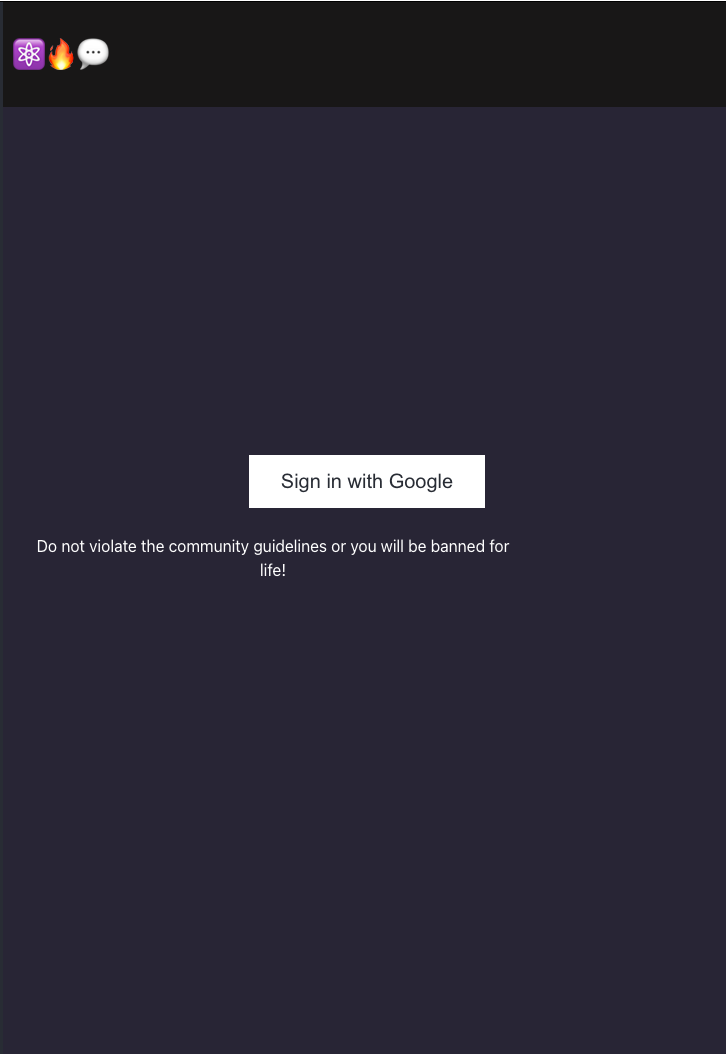
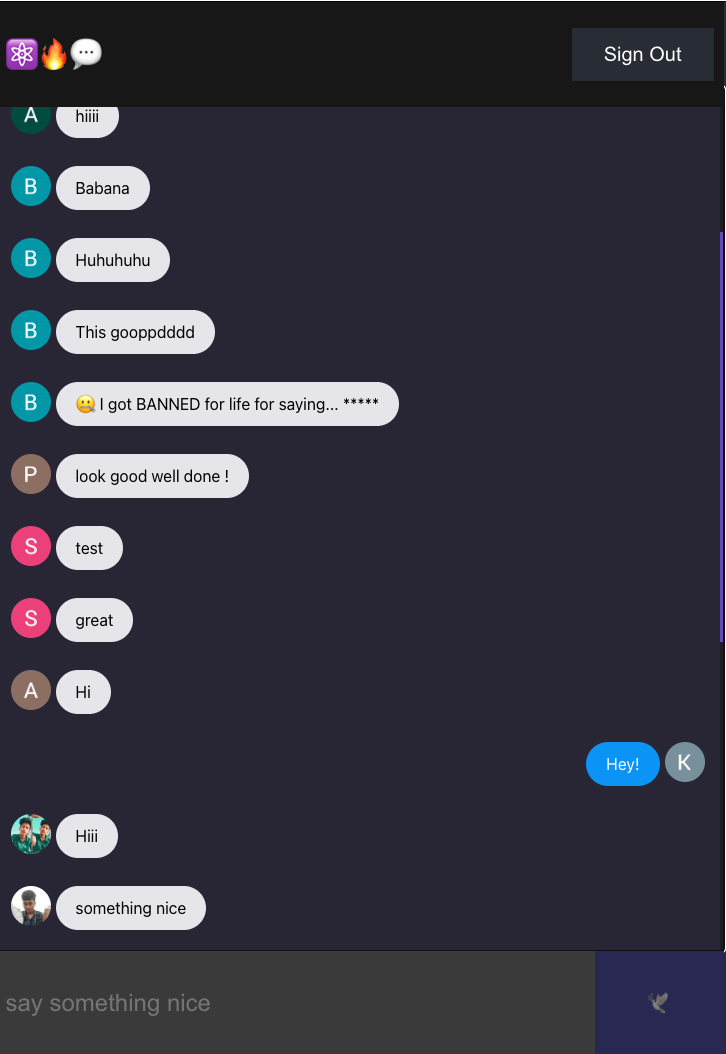
adding superchat

diff --git a/_projects/3_project.md b/_projects/3_project.md
@@ -2,79 +2,21 @@
 layout: page
 title: SuperChat
 description: global chat room for everyone
-img: assets/img/7.jpg
+img: assets/img/superchat/superchat.jpg
 importance: 3
 category: work
 ---
 
-Every project has a beautiful feature showcase page.
-It's easy to include images in a flexible 3-column grid format.
-Make your photos 1/3, 2/3, or full width.
-
-To give your project a background in the portfolio page, just add the img tag to the front matter like so:
-
-    ---
-    layout: page
-    title: project
-    description: a project with a background image
-    img: /assets/img/12.jpg
-    ---
+Global chat room for everyone. Utilizes React for the front end and Google Firebase for storage and real-time access of messages.
 
 <div class="row">
     <div class="col-sm mt-3 mt-md-0">
-        {% include figure.liquid loading="eager" path="assets/img/1.jpg" title="example image" class="img-fluid rounded z-depth-1" %}
+        {% include figure.liquid loading="eager" path="assets/img/superchat/signin.jpg" title="Google Sign In Image" class="img-fluid rounded z-depth-1" %}
     </div>
     <div class="col-sm mt-3 mt-md-0">
-        {% include figure.liquid loading="eager" path="assets/img/3.jpg" title="example image" class="img-fluid rounded z-depth-1" %}
-    </div>
-    <div class="col-sm mt-3 mt-md-0">
-        {% include figure.liquid loading="eager" path="assets/img/5.jpg" title="example image" class="img-fluid rounded z-depth-1" %}
+        {% include figure.liquid loading="eager" path="assets/img/superchat/chatroom.jpg" title="Chatroom image" class="img-fluid rounded z-depth-1" %}
     </div>
 </div>
 <div class="caption">
-    Caption photos easily. On the left, a road goes through a tunnel. Middle, leaves artistically fall in a hipster photoshoot. Right, in another hipster photoshoot, a lumberjack grasps a handful of pine needles.
+    Sign in easily with google sign-in and say hi!
 </div>
-<div class="row">
-    <div class="col-sm mt-3 mt-md-0">
-        {% include figure.liquid loading="eager" path="assets/img/5.jpg" title="example image" class="img-fluid rounded z-depth-1" %}
-    </div>
-</div>
-<div class="caption">
-    This image can also have a caption. It's like magic.
-</div>
-
-You can also put regular text between your rows of images.
-Say you wanted to write a little bit about your project before you posted the rest of the images.
-You describe how you toiled, sweated, _bled_ for your project, and then... you reveal its glory in the next row of images.
-
-<div class="row justify-content-sm-center">
-    <div class="col-sm-8 mt-3 mt-md-0">
-        {% include figure.liquid path="assets/img/6.jpg" title="example image" class="img-fluid rounded z-depth-1" %}
-    </div>
-    <div class="col-sm-4 mt-3 mt-md-0">
-        {% include figure.liquid path="assets/img/11.jpg" title="example image" class="img-fluid rounded z-depth-1" %}
-    </div>
-</div>
-<div class="caption">
-    You can also have artistically styled 2/3 + 1/3 images, like these.
-</div>
-
-The code is simple.
-Just wrap your images with `<div class="col-sm">` and place them inside `<div class="row">` (read more about the <a href="https://getbootstrap.com/docs/4.4/layout/grid/">Bootstrap Grid</a> system).
-To make images responsive, add `img-fluid` class to each; for rounded corners and shadows use `rounded` and `z-depth-1` classes.
-Here's the code for the last row of images above:
-
-{% raw %}
-
-```html
-<div class="row justify-content-sm-center">
-  <div class="col-sm-8 mt-3 mt-md-0">
-    {% include figure.liquid path="assets/img/6.jpg" title="example image" class="img-fluid rounded z-depth-1" %}
-  </div>
-  <div class="col-sm-4 mt-3 mt-md-0">
-    {% include figure.liquid path="assets/img/11.jpg" title="example image" class="img-fluid rounded z-depth-1" %}
-  </div>
-</div>
-```
-
-{% endraw %}
